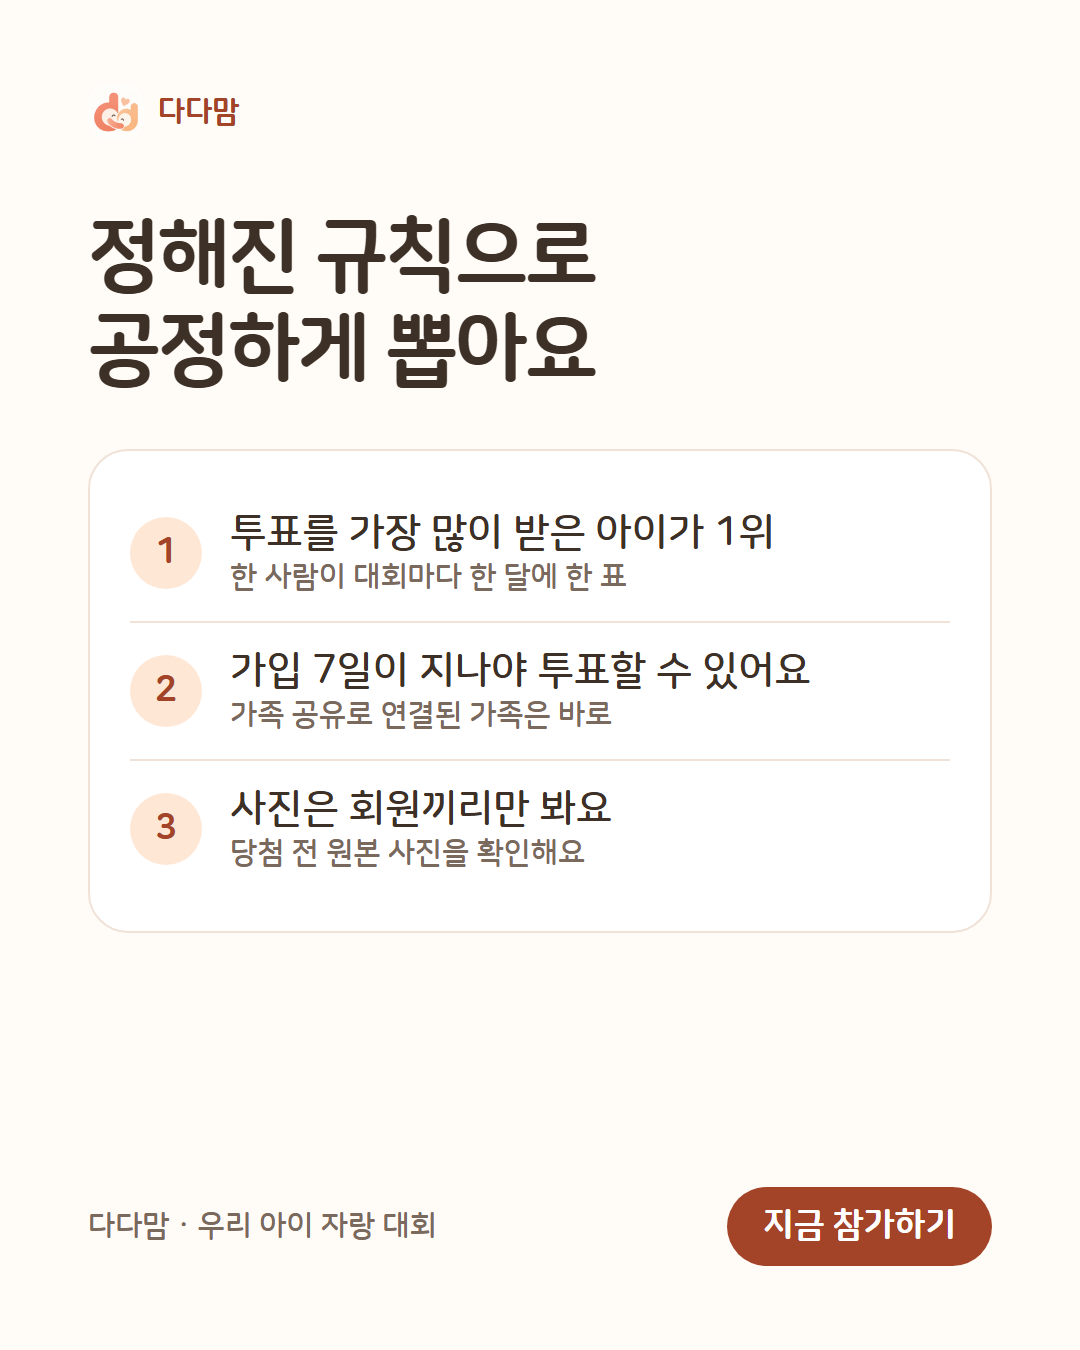
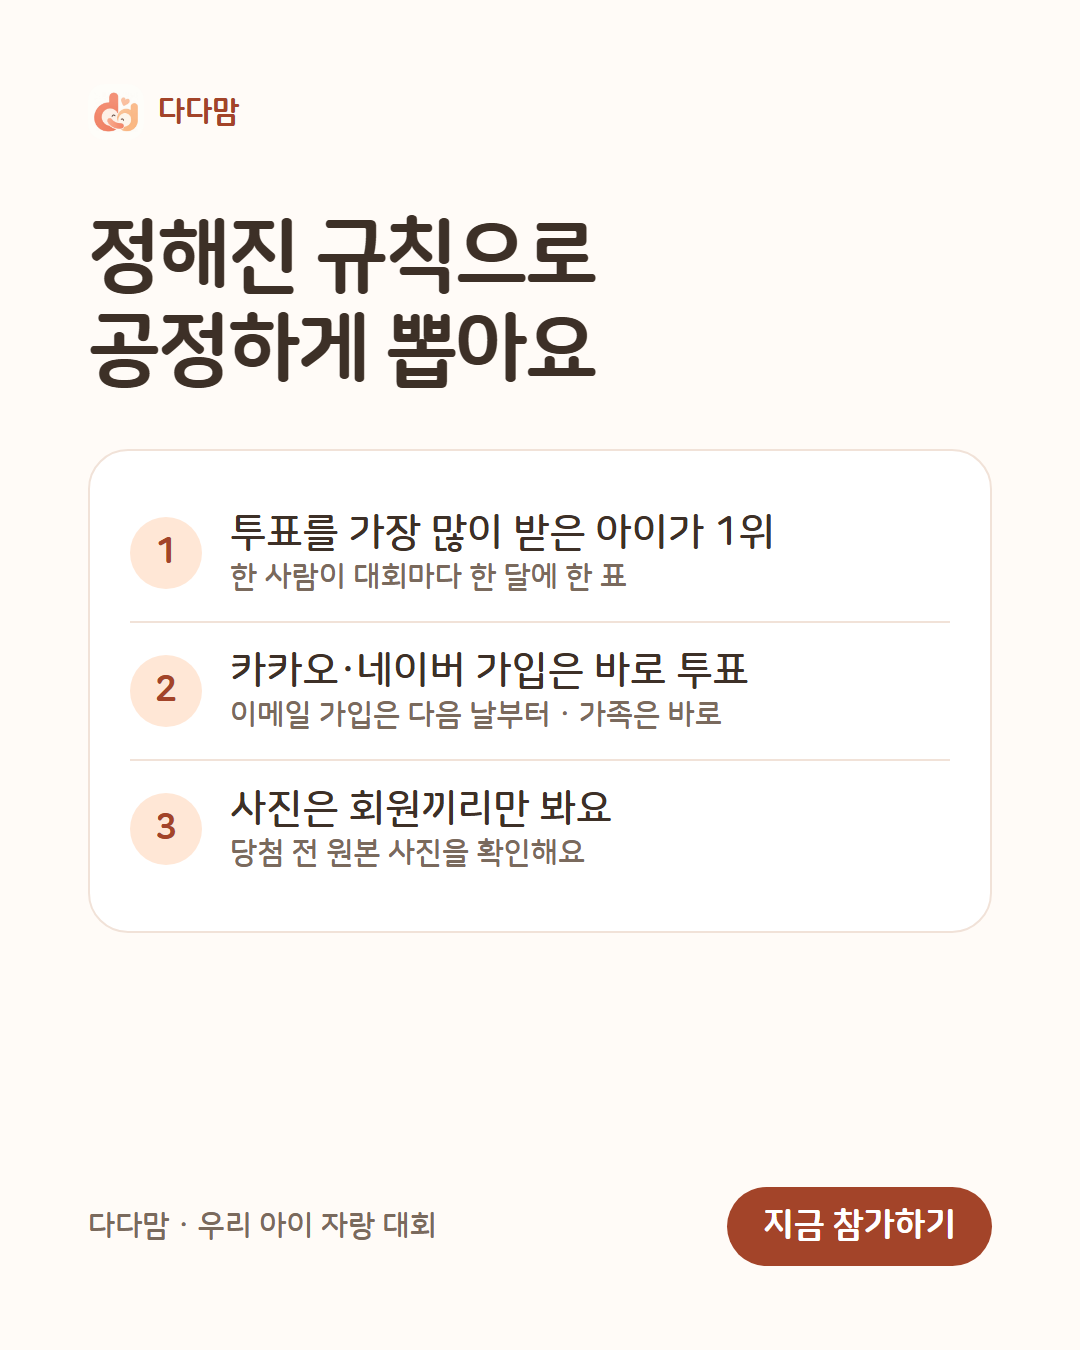
투표 대기 7일 → 카카오·네이버는 바로, 이메일 가입은 다음 날 (0056)
친구에게 투표를 부탁해도 일주일을 기다려야 해서 흐름이 끊겼다. 문자 인증은 비용이 들어
휴대폰 본인 확인을 하는 카카오·네이버(·애플) 연결 회원은 바로, 이메일·구글은 가입 24시간 뒤로 바꿨다.
대신 이메일 계정 늘리기를 막는다: 같은 메일함(gmail 점·+ 주소)은 챌린지마다 한 표, 일회용 메일은 투표 불가.
테스트 DB 적용, tests/0056_ballot.sql 8개 통과. 앱·웹 규칙 문구와 인스타 4번 이미지도 맞춤.

Changed region(s): [[0.2139, 0.4667, 0.7333, 0.56]]

diff --git a/index.html b/index.html
@@ -2441,7 +2441,7 @@
   var CH_RULES_FULL = [
     ['참가', ['회원인 보호자가 우리 아이로 참가해요', '챌린지마다 정해진 대상(개월 수·임신 중)에 맞아야 해요', '한 챌린지에 한 아이는 한 달에 한 번 참가해요', '영상은 끊지 않고 한 번에 찍은 것만 인정돼요']],
     ['공개', ['처음 몇 번은 검수 후 공개돼요', '규칙에 맞지 않거나 신고가 쌓이면 내려갈 수 있어요']],
-    ['심사', ['매달 투표를 가장 많이 받은 참가작이 1위예요 (같으면 응원 수)', '투표는 한 사람이 챌린지마다 한 달에 한 표예요', '가입 7일이 지나야 투표할 수 있어요. 가족 공유로 연결된 가족은 바로 할 수 있어요', '규칙에 맞지 않으면 다음 순위로 넘어가요']],
+    ['심사', ['매달 투표를 가장 많이 받은 참가작이 1위예요 (같으면 응원 수)', '투표는 한 사람이 챌린지마다 한 달에 한 표예요', '카카오·네이버로 가입한 분과 가족 공유로 연결된 가족은 바로, 이메일로 가입한 분은 다음 날부터 투표할 수 있어요', '규칙에 맞지 않으면 다음 순위로 넘어가요']],
     ['경품', ['매달 첫 주에 발표하고 가입 이메일로 연락드려요', '원본 사진·영상을 확인한 뒤 배민·올리브영 상품권 중 골라서 받아요', '3일 안에 원본을 못 보내 주시거나 7일 안에 답이 없으면 다음 순위로 넘어가요', '받을 휴대폰 번호는 보낸 뒤 바로 지워요']],
     ['홍보 활용', ['참가작은 다다맘과 경품 브랜드의 SNS·광고에 2년 동안 쓰일 수 있어요', '참가작을 지우면 새 홍보에는 쓰지 않아요']],
     ['받지 않아요', ['인터넷 사진·영상, 우리 아이가 아닌 것', '위험한 연출, 집을 알 수 있는 정보가 나온 것']]
@@ -3350,7 +3350,7 @@
   var myBallots = {};   // challenge_key → entry_id (이번 달)
   var ballotCounts = {};   // entry_id → 이번 달 표 수 (0042)
   function curMonthKST(){ return new Date(Date.now() + 9 * 3600000).toISOString().slice(0, 7); }
-  function ballotErrText(err){ var m = (err && (err.hint || err.message)) || ''; return /가입 7일|NEW_ACCOUNT/.test(m) ? '가입 7일이 지나면 투표할 수 있어요' : /내 참가작|OWN_ENTRY/.test(m) ? '내 참가작에는 투표할 수 없어요' : '투표를 저장하지 못했어요. 잠시 뒤 다시 눌러 주세요'; }
+  function ballotErrText(err){ var m = (err && err.message) || ''; return /NEW_ACCOUNT|THROWAWAY_MAIL|SAME_MAILBOX|OWN_ENTRY/.test(m) && err.hint ? err.hint : /NEW_ACCOUNT/.test(m) ? '이메일로 가입한 분은 가입 다음 날부터 투표할 수 있어요' : '투표를 저장하지 못했어요. 잠시 뒤 다시 눌러 주세요'; }
   async function fetchMyBallots(){
     myBallots = {}; ballotCounts = {};
     if(!sb || !authUser) return;
@@ -3993,7 +3993,7 @@
   }
 
   // ---------- 응원·투표 부탁하기 ----------
-  var ASK_RULE_HTML = '<span class="helper">투표는 가입 7일 뒤부터 할 수 있어요. 가족 공유로 연결된 가족은 바로 할 수 있어요.</span>';
+  var ASK_RULE_HTML = '<span class="helper">카카오·네이버로 가입한 분과 가족은 바로, 이메일로 가입한 분은 다음 날부터 투표할 수 있어요.</span>';
   function askVoteUrl(id){ return new URL('./vote.html', location.href).href.split('?')[0].split('#')[0] + '?entry=' + encodeURIComponent(id); }   // vote.html: 카톡 미리보기 카드 → 앱 화면으로 보냄
   async function shareAskVote(id){
     var en = state.entries.filter(function(x){ return String(x.id) === String(id); })[0];

diff --git a/community.html b/community.html
@@ -785,7 +785,7 @@
   var CH_RULES_FULL = [
     ['참가', ['회원인 보호자가 우리 아이로 참가해요', '챌린지마다 정해진 대상(개월 수·임신 중)에 맞아야 해요', '한 챌린지에 한 아이는 한 달에 한 번 참가해요', '영상은 끊지 않고 한 번에 찍은 것만 인정돼요']],
     ['공개', ['처음 몇 번은 검수 후 공개돼요', '규칙에 맞지 않거나 신고가 쌓이면 내려갈 수 있어요']],
-    ['심사', ['매달 투표를 가장 많이 받은 참가작이 1위예요 (같으면 응원 수)', '투표는 한 사람이 챌린지마다 한 달에 한 표예요', '가입 7일이 지나야 투표할 수 있어요. 가족 공유로 연결된 가족은 바로 할 수 있어요', '규칙에 맞지 않으면 다음 순위로 넘어가요']],
+    ['심사', ['매달 투표를 가장 많이 받은 참가작이 1위예요 (같으면 응원 수)', '투표는 한 사람이 챌린지마다 한 달에 한 표예요', '카카오·네이버로 가입한 분과 가족 공유로 연결된 가족은 바로, 이메일로 가입한 분은 다음 날부터 투표할 수 있어요', '규칙에 맞지 않으면 다음 순위로 넘어가요']],
     ['경품', ['매달 첫 주에 발표하고 가입 이메일로 연락드려요', '원본 사진·영상을 확인한 뒤 배민·올리브영 상품권 중 골라서 받아요', '3일 안에 원본을 못 보내 주시거나 7일 안에 답이 없으면 다음 순위로 넘어가요', '받을 휴대폰 번호는 보낸 뒤 바로 지워요']],
     ['홍보 활용', ['참가작은 다다맘과 경품 브랜드의 SNS·광고에 2년 동안 쓰일 수 있어요', '참가작을 지우면 새 홍보에는 쓰지 않아요']],
     ['받지 않아요', ['인터넷 사진·영상, 우리 아이가 아닌 것', '위험한 연출, 집을 알 수 있는 정보가 나온 것']]
@@ -1915,7 +1915,7 @@
 
   // 이달의 주인공: 그 달에 받은 응원 수 순위 (서버 challenge_hall). 끝난 달 1위가 주인공.
   function curMonthKST(){ return new Date(Date.now() + 9 * 3600000).toISOString().slice(0, 7); }
-  function ballotErrText(err){ var m = (err && (err.hint || err.message)) || ''; return /가입 7일|NEW_ACCOUNT/.test(m) ? '가입 7일이 지나면 투표할 수 있어요' : /내 참가작|OWN_ENTRY/.test(m) ? '내 참가작에는 투표할 수 없어요' : '투표를 저장하지 못했어요. 잠시 뒤 다시 눌러 주세요'; }
+  function ballotErrText(err){ var m = (err && err.message) || ''; return /NEW_ACCOUNT|THROWAWAY_MAIL|SAME_MAILBOX|OWN_ENTRY/.test(m) && err.hint ? err.hint : /NEW_ACCOUNT/.test(m) ? '이메일로 가입한 분은 가입 다음 날부터 투표할 수 있어요' : '투표를 저장하지 못했어요. 잠시 뒤 다시 눌러 주세요'; }
   var chLockWeb = '<div style="padding:28px 20px; text-align:center; display:flex; flex-direction:column; gap:8px; align-items:center;"><span style="font-size:30px;" aria-hidden="true"><svg class="ic" aria-hidden="true"><use href="#i-lock"></use></svg></span><b>참가작은 회원만 볼 수 있어요</b><span class="helper">아이 사진을 지키려고 로그인한 회원에게만 보여 줘요.</span><button type="button" class="btn primary" data-login>로그인하고 보기</button></div>';
   async function loadHallWeb(){
     var box = $('ch-hall'); if(!box) return;
